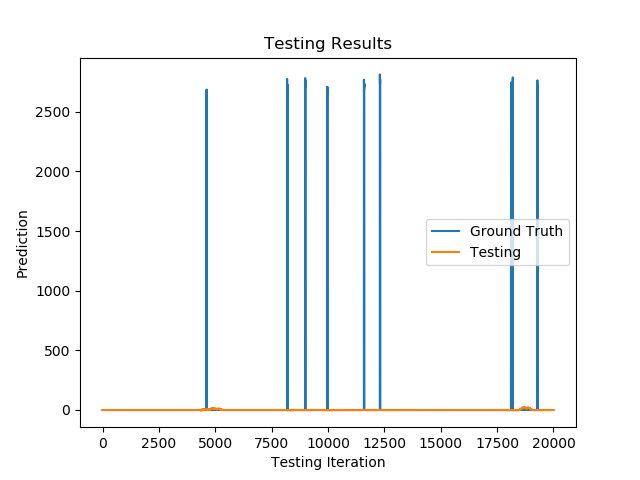
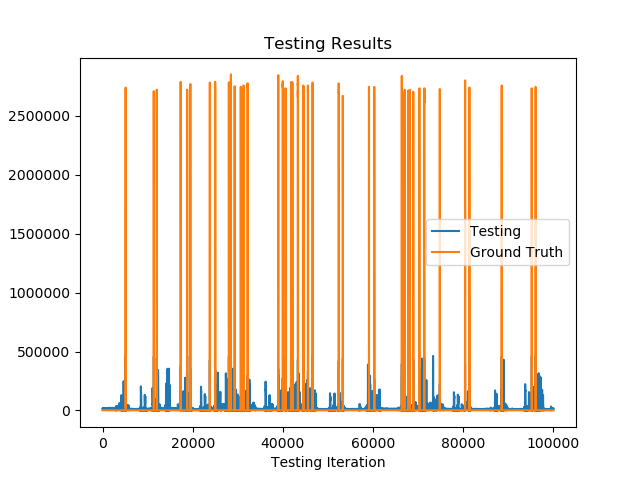
Further testing - fine tunes parameters

diff --git a/seq2point_train.py b/seq2point_train.py
@@ -14,14 +14,14 @@ def train_model():
     SIZE_OF_CHUNK = 5 * 10 ** 2
     DEFAULT_BATCH_SIZE = 1000
 
-    training_directory = "./kettle/kettle_training_.csv"
-    validation_directory = "./kettle/kettle_validation_.csv"
+    training_directory = "./kettle/kettle_validation_.csv"
+    validation_directory = "./kettle/kettle_test_.csv"
     window_offset = int((0.5 * 601 ) - 1)
 
     # Generator function to produce batches.
-    training_chunker = InputChunkSlider(file_name=training_directory, chunk_size=SIZE_OF_CHUNK, batch_size=DEFAULT_BATCH_SIZE, crop=1000000, shuffle=False, offset=window_offset, header=0, ram_threshold=5*10**5)
+    training_chunker = InputChunkSlider(file_name=training_directory, chunk_size=SIZE_OF_CHUNK, batch_size=DEFAULT_BATCH_SIZE, crop=100000, shuffle=False, offset=window_offset, header=0, ram_threshold=5*10**5)
 
-    validation_chunker = InputChunkSlider(file_name=validation_directory, chunk_size=SIZE_OF_CHUNK, batch_size=DEFAULT_BATCH_SIZE, crop=1000000, shuffle=False, offset=window_offset, header=0, ram_threshold=5*10**5)
+    validation_chunker = InputChunkSlider(file_name=validation_directory, chunk_size=SIZE_OF_CHUNK, batch_size=DEFAULT_BATCH_SIZE, crop=100000, shuffle=False, offset=window_offset, header=0, ram_threshold=5*10**5)
 
     # Calculate the optimum steps per epoch.
     training_chunker.check_if_chunking()
@@ -30,8 +30,8 @@ def train_model():
     # Compile the model with an Adam optimiser. Initialise early stopping callback that stops only 
     # if there's no improvement 2 epochs later.
     model = create_model()
-    model.compile(Adam(learning_rate=0.001, beta_1=0.9, beta_2=0.999), loss="mean_squared_error", metrics=["mae", "mse"]) 
-    early_stopping = EarlyStopping(monitor="val_loss", min_delta=0, patience=2, verbose=2, mode="auto")
+    model.compile(Adam(learning_rate=0.001, beta_1=0.9, beta_2=0.999), loss="mean_squared_logarithmic_error", metrics=["mse", "msle"]) 
+    early_stopping = EarlyStopping(monitor="loss", min_delta=0, patience=2, verbose=2, mode="auto")
 
     # Train the model with the generator function and early stopping callback.
     training_history = model.fit_generator(training_chunker.load_dataset(),
@@ -39,13 +39,13 @@ def train_model():
         validation_data = validation_chunker.load_dataset(),
         validation_steps=100,
         validation_freq=2,
-        epochs=50,
+        epochs=10,
         verbose=2, 
-        callbacks=[early_stopping])
+        callbacks=[])
 
     # Plot the monitored metrics and save.
-    plt.plot(training_history.history['mae'], label="MAE")
-    plt.plot(training_history.history['mse'], label="MSE (Loss)")
+    plt.plot(training_history.history['mse'], label="MAE")
+    plt.plot(training_history.history['msle'], label="MSE (Loss)")
     plt.title('Training Metrics')
     plt.ylabel('y')
     plt.xlabel('Epoch')
@@ -54,3 +54,5 @@ def train_model():
     plt.show()
 
     save_model(model, "./kettle/saved_model/kettle_model")
+
+train_model()

diff --git a/seq2point_test.py b/seq2point_test.py
@@ -36,12 +36,12 @@ def test_model():
     #         print("No testing file was found.")
     #         break
 
-    test_file_name = "./kettle/kettle_test_.csv"
+    test_file_name = "./kettle/kettle_validation_.csv"
 
     offset = int(0.5 * 601 - 1)
 
     # Get the (cropped) testing dataset.
-    CROP = 200000
+    CROP = 1000000
     DEFAULT_BATCH_SIZE = 1000
     test_input, test_target = load_dataset(test_file_name, CROP)
 
@@ -55,17 +55,19 @@ def test_model():
 
     # Test the model.
     testing_history = model.predict_generator(test_generator.load_data(), steps=steps_per_test_epoch)
-    print("test history: ", np.shape(testing_history))
+
     testing_history = ((testing_history * kettle_params["std"]) + kettle_params["mean"])
 
+    test_target = ((test_target * kettle_params["std"]) + kettle_params["mean"])
+
     # Can't have negative energy readings - set any results below 0 to 0.
-    # test_target[test_target < 0] = 0
-    #testing_history[testing_history < 0] = 0
+    test_target[test_target < 0] = 0
+    testing_history[testing_history < 0] = 0
 
     # Plot testing outcomes against ground truth.
     plt.figure(1)
-    plt.plot(test_target[0 : testing_history.size], label="Ground Truth")
     plt.plot(testing_history, label="Testing")
+    plt.plot(test_target[0 : testing_history.size], label="Ground Truth")
     plt.title('Testing Results')
     plt.ylabel('Prediction')
     plt.xlabel('Testing Iteration')
@@ -73,3 +75,5 @@ def test_model():
     plt.savefig(fname="testing_results.png")
     
     plt.show()
+
+test_model()

diff --git a/dataset_generator.py b/dataset_generator.py
@@ -1,13 +1,3 @@
-# JACK BARBER (2019) / 17633953 #
-#
-# Overview of Operation:
-#  - One of the REFIT houses is used for testing, and another for validation
-#  - The rest are used for training
-#  - The training, testing, and validation datasets are extracted from the REFIT csv files
-#  - Training data is merged from the different csv files to form a larger, single training file
-#  - The training set should be 60,00,000 rows in length, or 3.6GB in size
-#  - The datasets are saved to the ./[appliance] directory
-
 import os
 import time
 import re
